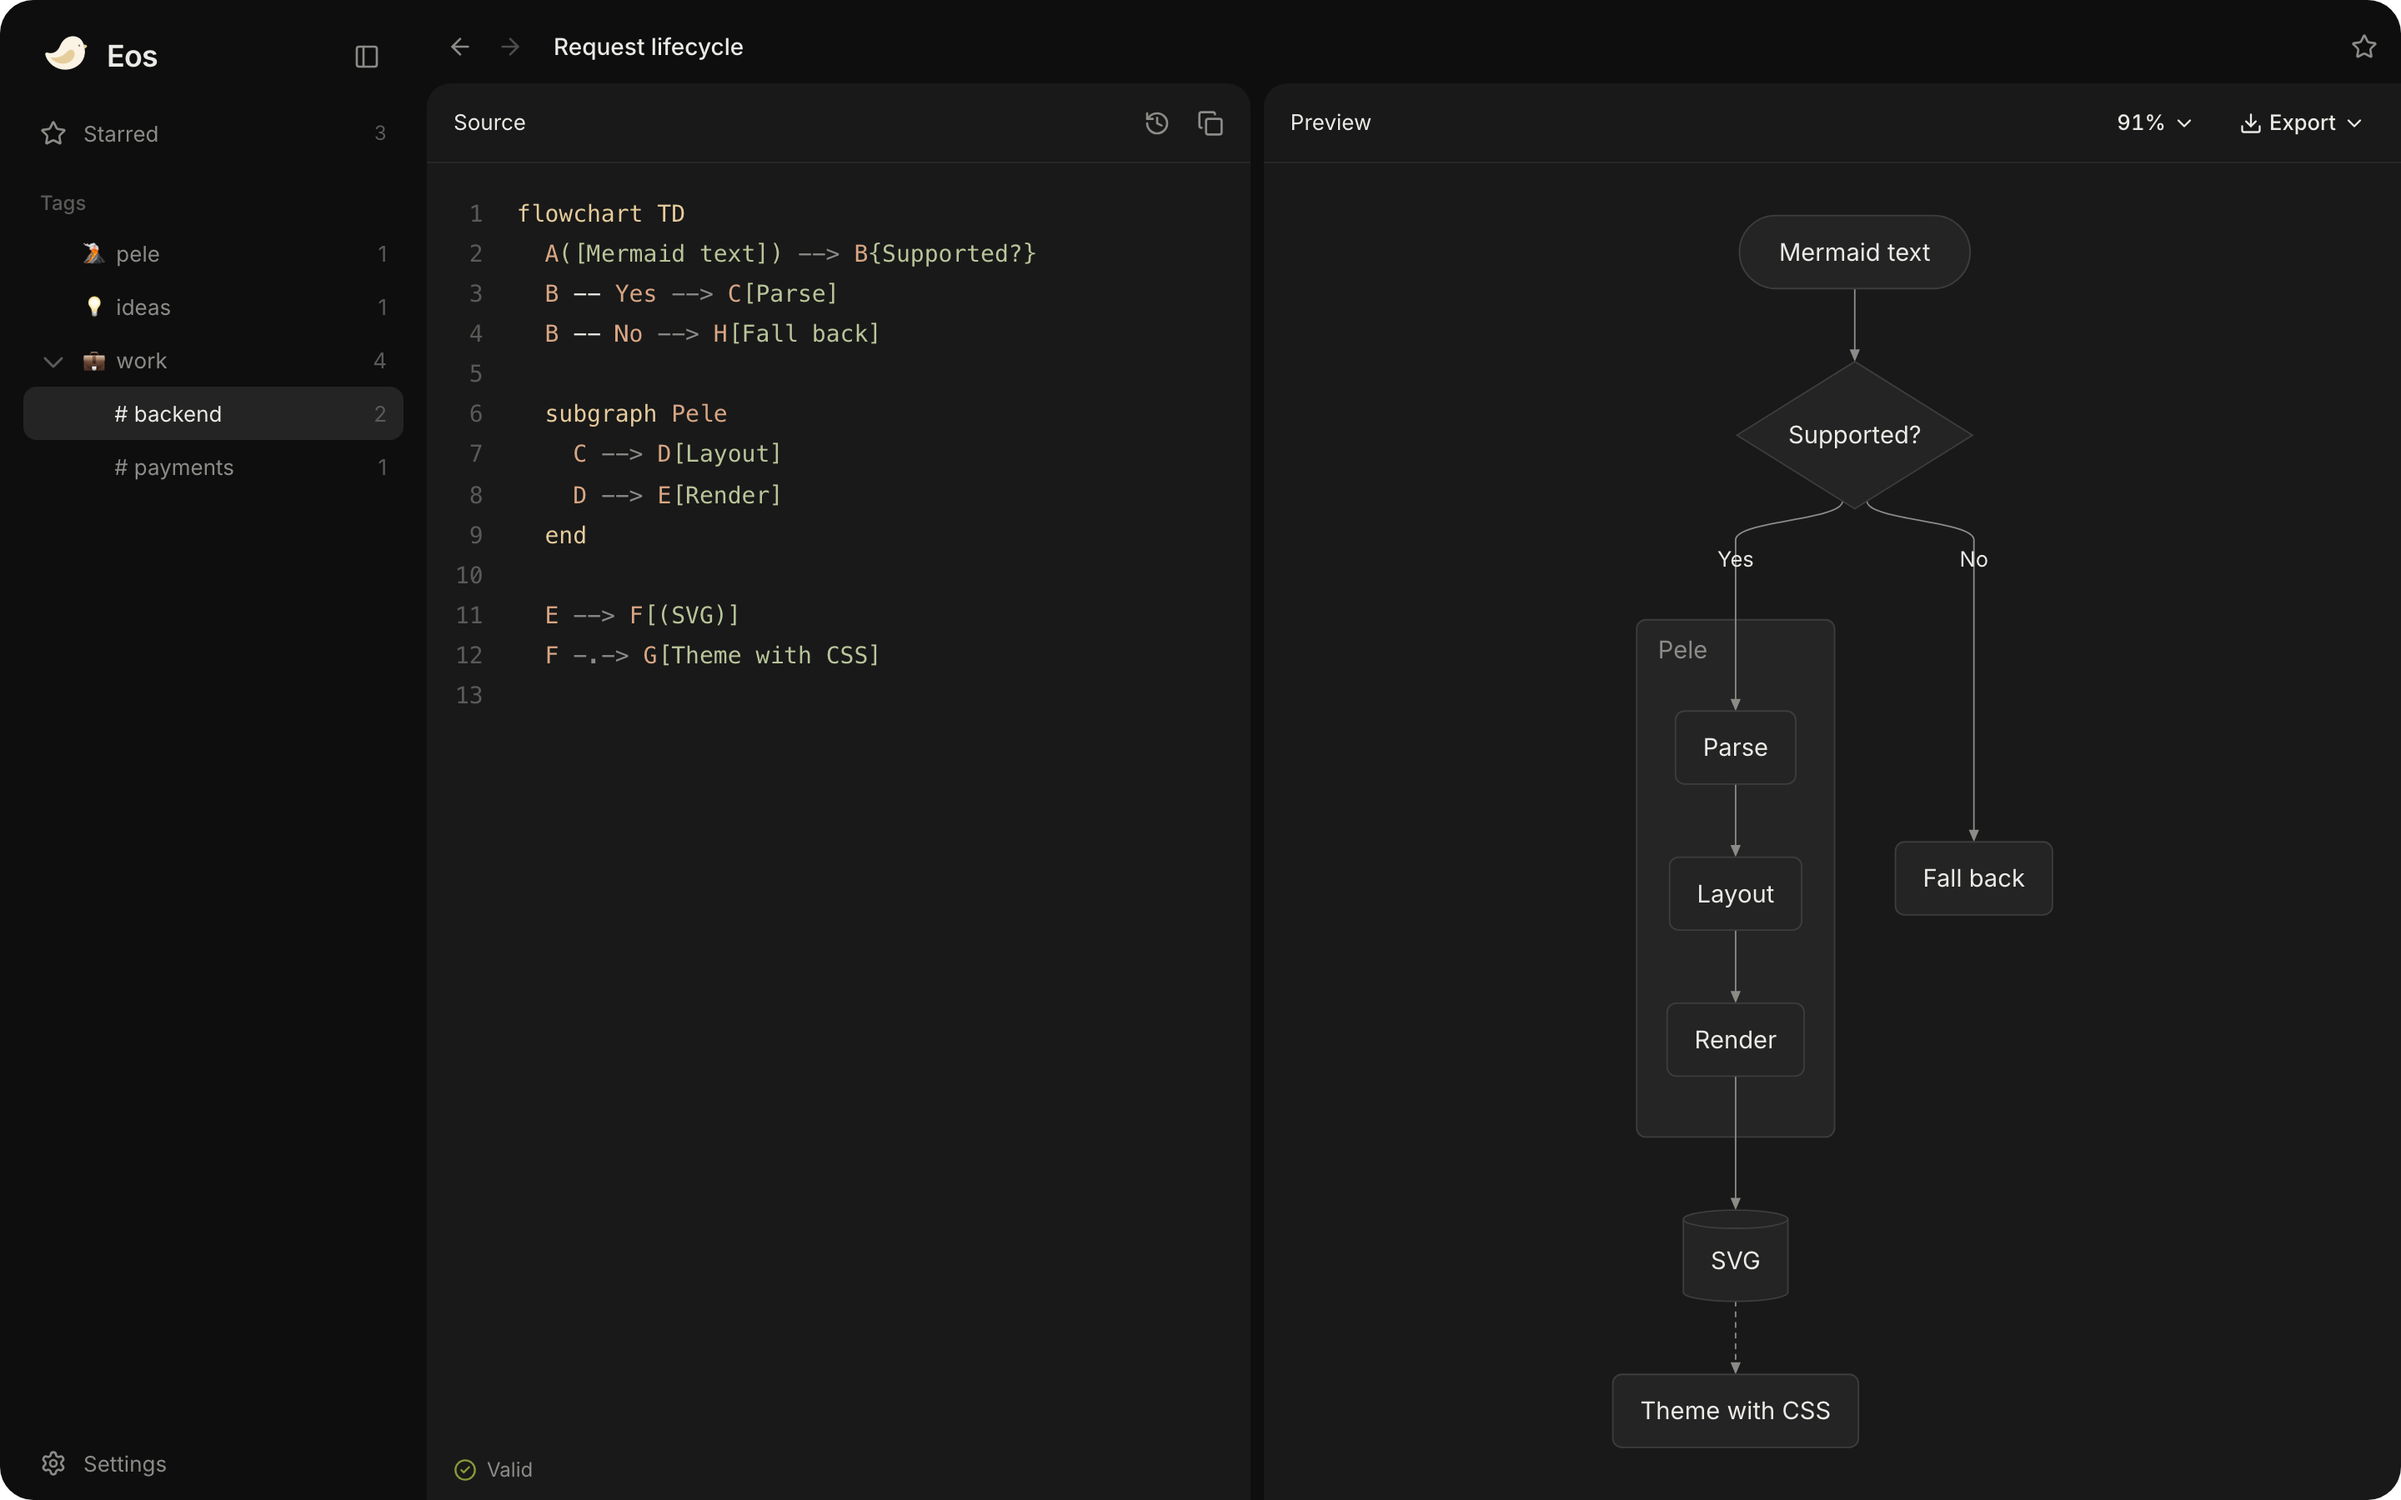
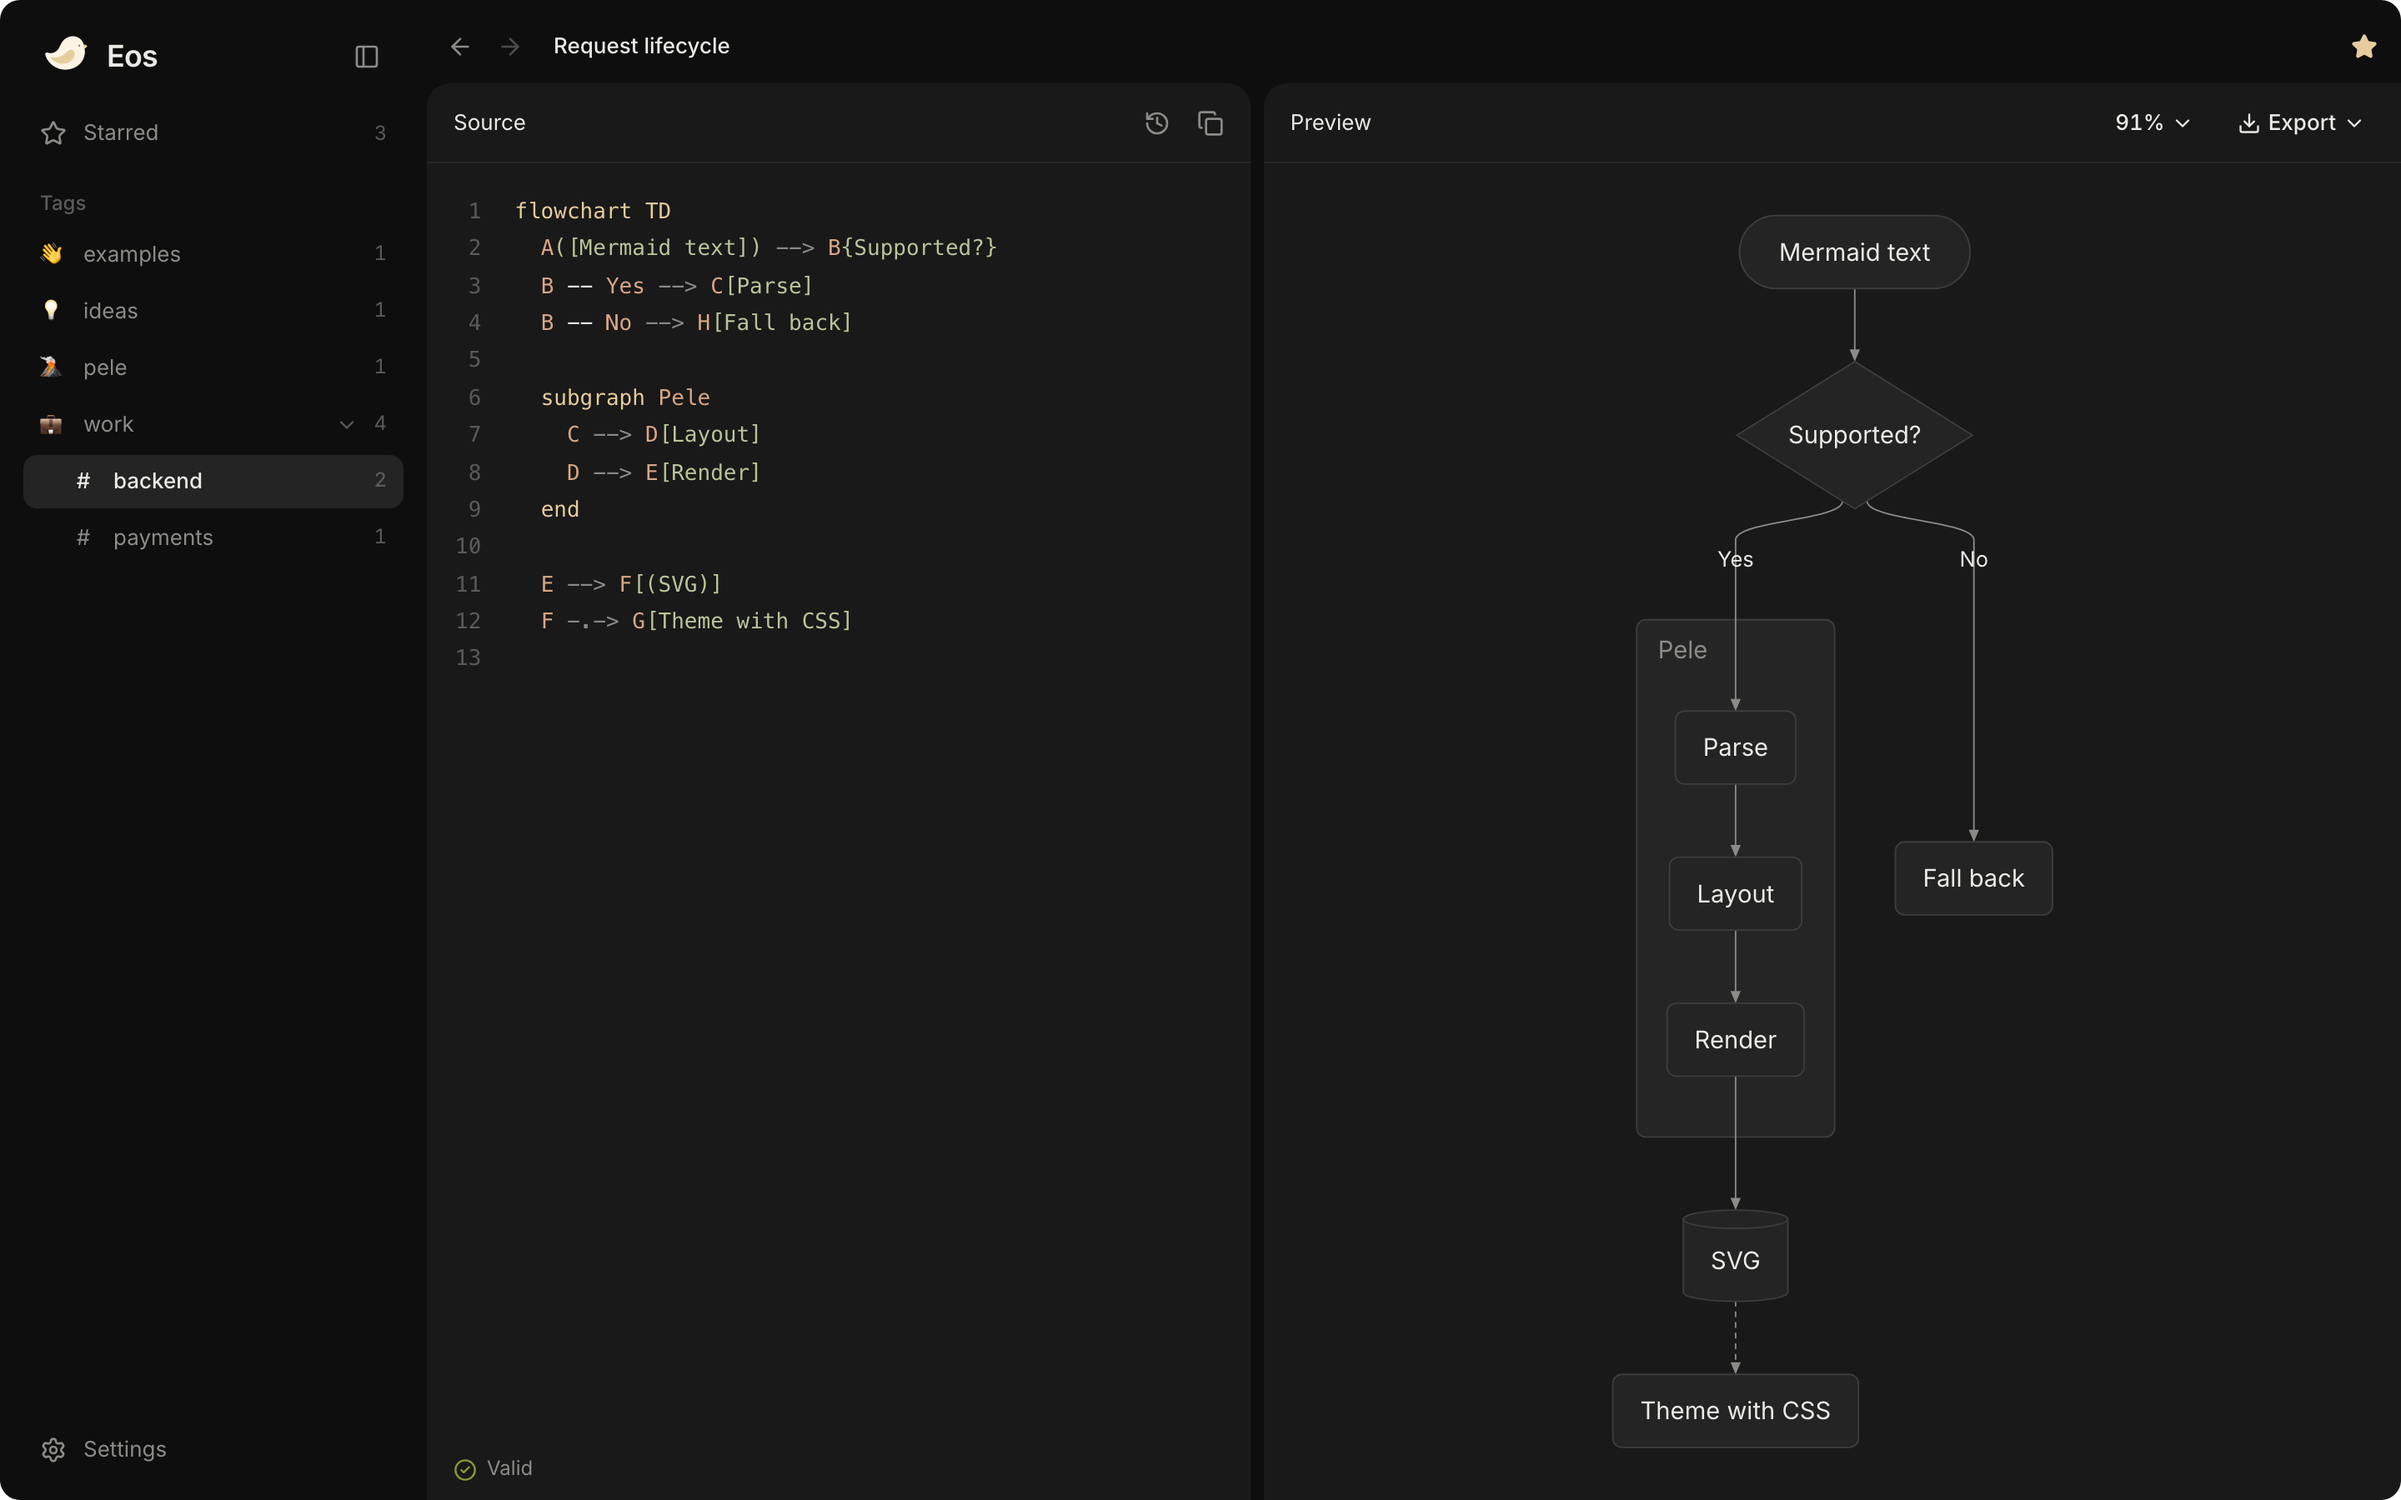
docs(readme): refresh screenshots

diff --git a/README.md b/README.md
@@ -18,7 +18,7 @@
 </p>
 
 Write Mermaid and the preview updates as you type, rendered by [Pele](https://pele.run), a fast Mermaid
-renderer. Every diagram stays in your browser, so you don't need an account. Tag and star diagrams, fuzzy-search them, roll back to any version, and share a
+renderer. Every diagram stays in your browser, so you don't need an account. Organise diagrams with nested tags and stars, fuzzy-search them, roll back to any version, and share a
 diagram as a link.
 
 An agent in your browser can do anything you can in the app: create, edit, organise, theme and export
@@ -28,7 +28,7 @@ a proposed browser standard that lets a page offer tools to AI agents. It asks b
 <p align="center">
   <picture>
     <source media="(prefers-color-scheme: dark)" srcset="assets/home-dark.png">
-    <img src="assets/home-light.png" width="860" alt="The Eos library: a grid of rendered diagrams grouped by date, with tags and stars">
+    <img src="assets/home-light.png" width="860" alt="The Eos library: a grid of rendered diagrams grouped by date, with nested emoji tags in the sidebar">
   </picture>
 </p>
 
